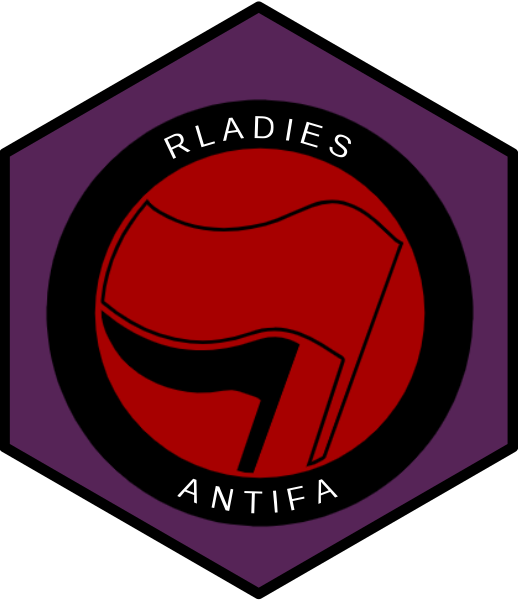
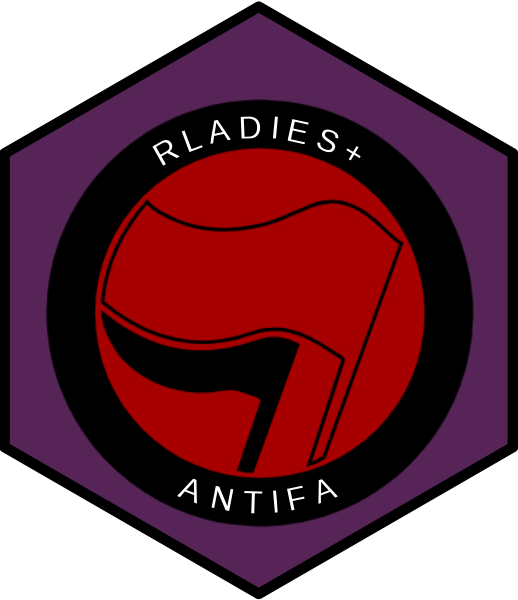
inclusive language ;)

Changed region(s): [[0.278, 0.18, 0.7104, 0.27]]

diff --git a/README.md b/README.md
@@ -37,7 +37,7 @@ img <- readPNG("figs/noun_Antifa_1245689.png")
 Finally, we create the hexSticker:
 
 ``` r
-sticker(~ antifa(), # bg color for antifa logo
+sticker(~ antifa("RLADIES+"),
         package = "",
         s_x = .7, s_y = .7,
         s_width = 3.5, s_height = 3.5,
